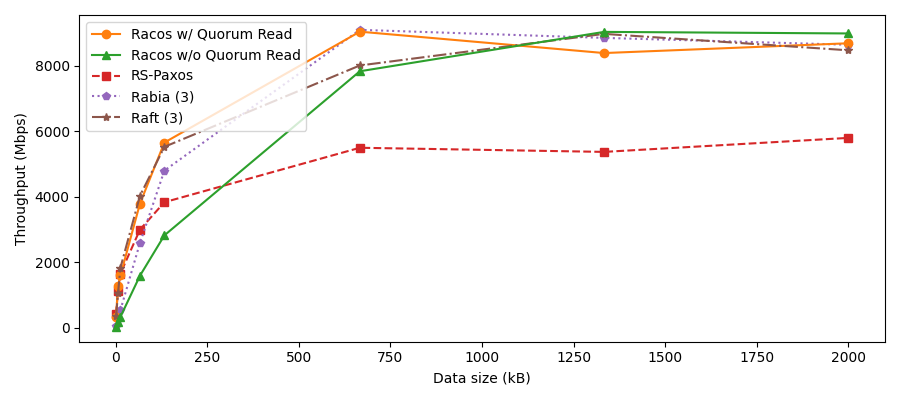
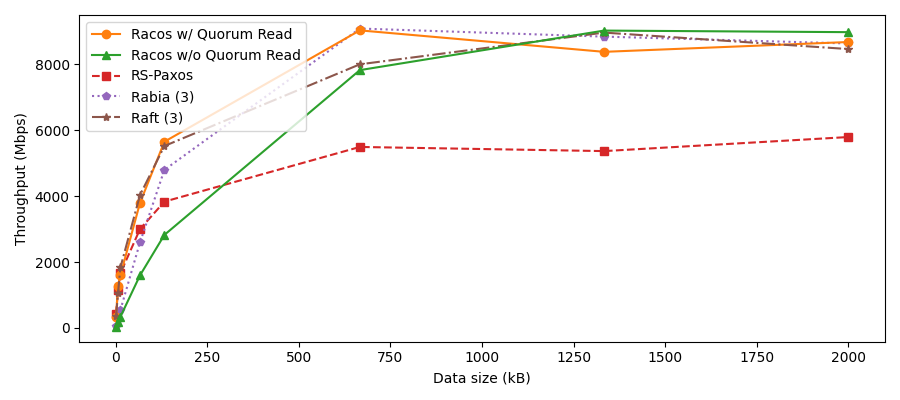
new plot

diff --git a/plotting.py b/plotting.py
@@ -37,6 +37,7 @@ def data_size_discrete_5_write_95_read() -> None:
   pyplot.figure(figsize = DIMENSIONS)
   for alg, group in data.groupby(['alg', 'unit_size'])['ops'].mean().reset_index().groupby('alg'):
     pyplot.plot(group['unit_size'], group['ops'] * group['unit_size'] / 125, linestyle = ALG_VANITY[alg][3], marker = ALG_VANITY[alg][2], color = ALG_VANITY[alg][0])
+  pyplot.ylim(top = 9000)
   pyplot.xlabel('Data size (kB)')
   pyplot.ylabel('Throughput (Mbps)')
   pyplot.legend(handles = LINE_LEGEND_READ, loc = 'upper left')
@@ -50,6 +51,7 @@ def data_size_discrete_5_write_95_read() -> None:
     pyplot.plot(x_axis + ALG_VANITY[alg][1], group['p95_latency'] / 1000, marker = 'o', linestyle = '', color = ALG_VANITY[alg][0])
     pyplot.plot(x_axis + ALG_VANITY[alg][1], group['p99_latency'] / 1000, marker = 'o', linestyle = '', color = ALG_VANITY[alg][0])
   pyplot.xticks(x_axis, ['1.3', '6.7', '13.3', '66.7', '133.3', '666.7', '1333.3', '2000.0'])
+  pyplot.ylim(top = 750)
   pyplot.xlabel('Data size (kB)')
   pyplot.ylabel('Latency (ms)')
   pyplot.legend(handles = BAR_LEGEND_READ, loc = 'upper left')
@@ -87,6 +89,7 @@ def data_size_discrete_all_read() -> None:
   pyplot.figure(figsize = DIMENSIONS)
   for alg, group in data.groupby(['alg', 'unit_size'])['ops'].mean().reset_index().groupby('alg'):
     pyplot.plot(group['unit_size'], group['ops'] * group['unit_size'] / 125, linestyle = ALG_VANITY[alg][3], marker = ALG_VANITY[alg][2], color = ALG_VANITY[alg][0])
+  pyplot.ylim(top = 9500)
   pyplot.xlabel('Data size (kB)')
   pyplot.ylabel('Throughput (Mbps)')
   pyplot.legend(handles = LINE_LEGEND_READ, loc = 'upper left')
@@ -116,6 +119,7 @@ def data_size_discrete_all_write() -> None:
   pyplot.figure(figsize = DIMENSIONS)
   for alg, group in data.groupby(['alg', 'unit_size'])['ops'].mean().reset_index().groupby('alg'):
     pyplot.plot(group['unit_size'], group['ops'] * group['unit_size'] / 125, linestyle = ALG_VANITY[alg][3], marker = ALG_VANITY[alg][2], color = ALG_VANITY[alg][0])
+  pyplot.ylim(top = 1100)
   pyplot.xlabel('Data size (kB)')
   pyplot.ylabel('Throughput (Mbps)')
   pyplot.legend(handles = LINE_LEGEND_WRITE, loc = 'upper left')
@@ -129,6 +133,7 @@ def data_size_discrete_all_write() -> None:
     pyplot.plot(x_axis + ALG_VANITY_WRITE[alg][1], group['p95_latency'] / 1000, marker = 'o', linestyle = '', color = ALG_VANITY_WRITE[alg][0])
     pyplot.plot(x_axis + ALG_VANITY_WRITE[alg][1], group['p99_latency'] / 1000, marker = 'o', linestyle = '', color = ALG_VANITY_WRITE[alg][0])
   pyplot.xticks(x_axis, ['1.3', '6.7', '13.3', '66.7', '133.3', '666.7', '1333.3', '2000.0'])
+  pyplot.ylim(top = 6000)
   pyplot.xlabel('Data size (kB)')
   pyplot.ylabel('Latency (ms)')
   pyplot.legend(handles = BAR_LEGEND_WRITE, loc = 'upper left')
@@ -142,11 +147,12 @@ def data_size_discrete_half_write_half_read() -> None:
   pyplot.figure(figsize = DIMENSIONS)
   for alg, group in data.groupby(['alg', 'unit_size'])['ops'].mean().reset_index().groupby('alg'):
     pyplot.plot(group['unit_size'], group['ops'] * group['unit_size'] / 125, linestyle = ALG_VANITY[alg][3], marker = ALG_VANITY[alg][2], color = ALG_VANITY[alg][0])
+  pyplot.ylim(top = 2100)
   pyplot.xlabel('Data size (kB)')
   pyplot.ylabel('Throughput (Mbps)')
   pyplot.legend(handles = LINE_LEGEND_READ, loc = 'upper left')
   pyplot.tight_layout()
-  pyplot.savefig('plots/data_size-discrete-5_write_95_read/data_size-throughput-half_write_half_read.png')
+  pyplot.savefig('plots/data_size-discrete-half_write_half_read/data_size-throughput-half_write_half_read.png')
 
   pyplot.figure(figsize = DIMENSIONS)
   x_axis : numpy.ndarray = numpy.arange(8)
@@ -155,11 +161,12 @@ def data_size_discrete_half_write_half_read() -> None:
     pyplot.plot(x_axis + ALG_VANITY[alg][1], group['p95_latency'] / 1000, marker = 'o', linestyle = '', color = ALG_VANITY[alg][0])
     pyplot.plot(x_axis + ALG_VANITY[alg][1], group['p99_latency'] / 1000, marker = 'o', linestyle = '', color = ALG_VANITY[alg][0])
   pyplot.xticks(x_axis, ['1.3', '6.7', '13.3', '66.7', '133.3', '666.7', '1333.3', '2000.0'])
+  pyplot.ylim(top = 3500)
   pyplot.xlabel('Data size (kB)')
   pyplot.ylabel('Latency (ms)')
   pyplot.legend(handles = BAR_LEGEND_READ, loc = 'upper left')
   pyplot.tight_layout()
-  pyplot.savefig('plots/data_size-discrete-5_write_95_read/data_size-latency-half_write_half_read.png')
+  pyplot.savefig('plots/data_size-discrete-half_write_half_read/data_size-latency-half_write_half_read.png')
 
   loss_data : pandas.DataFrame = setup_dataframe(data, 'packet_loss_config')
   loss_data = loss_data.loc[loss_data['packet_loss_config'].apply(lambda config : config_matches(r'^0\.01(_0\.01)*_0$', config))]
@@ -171,7 +178,7 @@ def data_size_discrete_half_write_half_read() -> None:
   pyplot.ylabel('Throughput (Mbps)')
   pyplot.legend(handles = LINE_LEGEND_READ, loc = 'upper left')
   pyplot.tight_layout()
-  pyplot.savefig('plots/data_size-discrete-5_write_95_read/data_size-throughput-half_write_half_read-loss.png')
+  pyplot.savefig('plots/data_size-discrete-half_write_half_read/data_size-throughput-half_write_half_read-loss.png')
 
   pyplot.figure(figsize = DIMENSIONS)
   for alg, group in loss_data.groupby(['alg', 'unit_size'])[['med_latency', 'p95_latency', 'p99_latency']].mean().reset_index().groupby('alg'):
@@ -183,7 +190,7 @@ def data_size_discrete_half_write_half_read() -> None:
   pyplot.ylabel('Latency (ms)')
   pyplot.legend(handles = BAR_LEGEND_READ, loc = 'upper left')
   pyplot.tight_layout()
-  pyplot.savefig('plots/data_size-discrete-5_write_95_read/data_size-latency-half_write_half_read-loss.png')
+  pyplot.savefig('plots/data_size-discrete-half_write_half_read/data_size-latency-half_write_half_read-loss.png')
 
 def data_size_light_5_write_95_read() -> None:
   '''creates all configured plots from the data found in `data/data_size-light-5_write_95_read`'''
@@ -192,6 +199,7 @@ def data_size_light_5_write_95_read() -> None:
   pyplot.figure(figsize = DIMENSIONS)
   for alg, group in data.groupby(['alg', 'unit_size'])['ops'].mean().reset_index().groupby('alg'):
     pyplot.plot(group['unit_size'], group['ops'] * group['unit_size'] / 125, linestyle = ALG_VANITY[alg][3], marker = ALG_VANITY[alg][2], color = ALG_VANITY[alg][0])
+  pyplot.ylim(top = 9000)
   pyplot.xlabel('Data size (kB)')
   pyplot.ylabel('Throughput (Mbps)')
   pyplot.legend(handles = LINE_LEGEND_READ, loc = 'upper left')
@@ -205,6 +213,7 @@ def data_size_light_5_write_95_read() -> None:
     pyplot.plot(x_axis + ALG_VANITY[alg][1], group['p95_latency'] / 1000, marker = 'o', linestyle = '', color = ALG_VANITY[alg][0])
     pyplot.plot(x_axis + ALG_VANITY[alg][1], group['p99_latency'] / 1000, marker = 'o', linestyle = '', color = ALG_VANITY[alg][0])
   pyplot.xticks(x_axis, ['1.3', '6.7', '13.3', '66.7', '133.3', '666.7', '1333.3', '2000.0'])
+  pyplot.ylim(top = 750)
   pyplot.xlabel('Data size (kB)')
   pyplot.ylabel('Latency (ms)')
   pyplot.legend(handles = BAR_LEGEND_READ, loc = 'upper left')
@@ -218,6 +227,7 @@ def data_size_light_all_read() -> None:
   pyplot.figure(figsize = DIMENSIONS)
   for alg, group in data.groupby(['alg', 'unit_size'])['ops'].mean().reset_index().groupby('alg'):
     pyplot.plot(group['unit_size'], group['ops'] * group['unit_size'] / 125, linestyle = ALG_VANITY[alg][3], marker = ALG_VANITY[alg][2], color = ALG_VANITY[alg][0])
+  pyplot.ylim(top = 9500)
   pyplot.xlabel('Data size (kB)')
   pyplot.ylabel('Throughput (Mbps)')
   pyplot.legend(handles = LINE_LEGEND_READ, loc = 'upper left')
@@ -247,6 +257,7 @@ def data_size_light_all_write() -> None:
   pyplot.figure(figsize = DIMENSIONS)
   for alg, group in data.groupby(['alg', 'unit_size'])['ops'].mean().reset_index().groupby('alg'):
     pyplot.plot(group['unit_size'], group['ops'] * group['unit_size'] / 125, linestyle = ALG_VANITY[alg][3], marker = ALG_VANITY[alg][2], color = ALG_VANITY[alg][0])
+  pyplot.ylim(top = 1100)
   pyplot.xlabel('Data size (kB)')
   pyplot.ylabel('Throughput (Mbps)')
   pyplot.legend(handles = LINE_LEGEND_WRITE, loc = 'upper left')
@@ -260,6 +271,7 @@ def data_size_light_all_write() -> None:
     pyplot.plot(x_axis + ALG_VANITY_WRITE[alg][1], group['p95_latency'] / 1000, marker = 'o', linestyle = '', color = ALG_VANITY_WRITE[alg][0])
     pyplot.plot(x_axis + ALG_VANITY_WRITE[alg][1], group['p99_latency'] / 1000, marker = 'o', linestyle = '', color = ALG_VANITY_WRITE[alg][0])
   pyplot.xticks(x_axis, ['1.3', '6.7', '13.3', '66.7', '133.3', '666.7', '1333.3', '2000.0'])
+  pyplot.ylim(top = 6000)
   pyplot.xlabel('Data size (kB)')
   pyplot.ylabel('Latency (ms)')
   pyplot.legend(handles = BAR_LEGEND_WRITE, loc = 'upper left')
@@ -273,11 +285,12 @@ def data_size_light_half_write_half_read() -> None:
   pyplot.figure(figsize = DIMENSIONS)
   for alg, group in data.groupby(['alg', 'unit_size'])['ops'].mean().reset_index().groupby('alg'):
     pyplot.plot(group['unit_size'], group['ops'] * group['unit_size'] / 125, linestyle = ALG_VANITY[alg][3], marker = ALG_VANITY[alg][2], color = ALG_VANITY[alg][0])
+  pyplot.ylim(top = 2100)
   pyplot.xlabel('Data size (kB)')
   pyplot.ylabel('Throughput (Mbps)')
   pyplot.legend(handles = LINE_LEGEND_READ, loc = 'upper left')
   pyplot.tight_layout()
-  pyplot.savefig('plots/data_size-light-5_write_95_read/data_size-throughput-half_write_half_read-light.png')
+  pyplot.savefig('plots/data_size-light-half_write_half_read/data_size-throughput-half_write_half_read-light.png')
 
   pyplot.figure(figsize = DIMENSIONS)
   x_axis : numpy.ndarray = numpy.arange(8)
@@ -286,37 +299,40 @@ def data_size_light_half_write_half_read() -> None:
     pyplot.plot(x_axis + ALG_VANITY[alg][1], group['p95_latency'] / 1000, marker = 'o', linestyle = '', color = ALG_VANITY[alg][0])
     pyplot.plot(x_axis + ALG_VANITY[alg][1], group['p99_latency'] / 1000, marker = 'o', linestyle = '', color = ALG_VANITY[alg][0])
   pyplot.xticks(x_axis, ['1.3', '6.7', '13.3', '66.7', '133.3', '666.7', '1333.3', '2000.0'])
+  pyplot.ylim(top = 3500)
   pyplot.xlabel('Data size (kB)')
   pyplot.ylabel('Latency (ms)')
   pyplot.legend(handles = BAR_LEGEND_READ, loc = 'upper left')
   pyplot.tight_layout()
-  pyplot.savefig('plots/data_size-light-5_write_95_read/data_size-latency-half_write_half_read-light.png')
+  pyplot.savefig('plots/data_size-light-half_write_half_read/data_size-latency-half_write_half_read-light.png')
 
 def data_size_small_light_half_write_half_read() -> None:
-  '''creates all configured plots from the data found in `data/data_size-light-half_write_half_read`'''
-  data : pandas.DataFrame = setup_dataframe(pandas.read_csv('data/data_size-light-half_write_half_read.csv'))
+  '''creates all configured plots from the data found in `data/data_size-small_light-half_write_half_read`'''
+  data : pandas.DataFrame = pandas.read_csv('data/data_size-small_light-half_write_half_read.csv')
 
   pyplot.figure(figsize = DIMENSIONS)
   for alg, group in data.groupby(['alg', 'unit_size'])['ops'].mean().reset_index().groupby('alg'):
-    pyplot.plot(group['unit_size'], group['ops'] * group['unit_size'] / 125, linestyle = ALG_VANITY[alg][3], marker = ALG_VANITY[alg][2], color = ALG_VANITY[alg][0])
-  pyplot.xlabel('Data size (kB)')
+    pyplot.plot(group['unit_size'] * 1.35, group['ops'] * group['unit_size'] * 1.35 * 8 / 1000000, linestyle = ALG_VANITY[alg][3], marker = ALG_VANITY[alg][2], color = ALG_VANITY[alg][0])
+  pyplot.ylim(top = 30)
+  pyplot.xlabel('Data size (B)')
   pyplot.ylabel('Throughput (Mbps)')
   pyplot.legend(handles = LINE_LEGEND_READ, loc = 'upper left')
   pyplot.tight_layout()
-  pyplot.savefig('plots/data_size-light-5_write_95_read/data_size-throughput-half_write_half_read-light.png')
+  pyplot.savefig('plots/data_size-small_light-half_write_half_read/data_size-throughput-half_write_half_read-small_light.png')
 
   pyplot.figure(figsize = DIMENSIONS)
-  x_axis : numpy.ndarray = numpy.arange(8)
+  x_axis : numpy.ndarray = numpy.arange(4)
   for alg, group in data.groupby(['alg', 'unit_size'])[['med_latency', 'p95_latency', 'p99_latency']].mean().reset_index().groupby('alg'):
     pyplot.bar(x_axis + ALG_VANITY[alg][1], group['med_latency'] / 1000, .19, color = ALG_VANITY[alg][0])
     pyplot.plot(x_axis + ALG_VANITY[alg][1], group['p95_latency'] / 1000, marker = 'o', linestyle = '', color = ALG_VANITY[alg][0])
     pyplot.plot(x_axis + ALG_VANITY[alg][1], group['p99_latency'] / 1000, marker = 'o', linestyle = '', color = ALG_VANITY[alg][0])
-  pyplot.xticks(x_axis, ['1.3', '6.7', '13.3', '66.7', '133.3', '666.7', '1333.3', '2000.0'])
-  pyplot.xlabel('Data size (kB)')
+  pyplot.xticks(x_axis, ['270', '540', '810', '1080'])
+  pyplot.ylim(top = 150)
+  pyplot.xlabel('Data size (B)')
   pyplot.ylabel('Latency (ms)')
-  pyplot.legend(handles = BAR_LEGEND_READ, loc = 'upper left')
+  pyplot.legend(handles = BAR_LEGEND_READ, loc = 'upper right', ncols = 2)
   pyplot.tight_layout()
-  pyplot.savefig('plots/data_size-light-5_write_95_read/data_size-latency-half_write_half_read-light.png')
+  pyplot.savefig('plots/data_size-small_light-half_write_half_read/data_size-latency-half_write_half_read-small_light.png')
 
 def data_size_small_half_write_half_read() -> None:
   '''creates all configured plots from the data found in `data/data_size-small-half_write_half_read`'''
@@ -325,6 +341,7 @@ def data_size_small_half_write_half_read() -> None:
   pyplot.figure(figsize = DIMENSIONS)
   for alg, group in data.groupby(['alg', 'unit_size'])['ops'].mean().reset_index().groupby('alg'):
     pyplot.plot(group['unit_size'] * 1.35, group['ops'] * group['unit_size'] * 1.35 * 8 / 1000000, linestyle = ALG_VANITY[alg][3], marker = ALG_VANITY[alg][2], color = ALG_VANITY[alg][0])
+  pyplot.ylim(top = 30)
   pyplot.xlabel('Data size (B)')
   pyplot.ylabel('Throughput (Mbps)')
   pyplot.legend(handles = LINE_LEGEND_READ, loc = 'upper left')
@@ -338,6 +355,7 @@ def data_size_small_half_write_half_read() -> None:
     pyplot.plot(x_axis + ALG_VANITY[alg][1], group['p95_latency'] / 1000, marker = 'o', linestyle = '', color = ALG_VANITY[alg][0])
     pyplot.plot(x_axis + ALG_VANITY[alg][1], group['p99_latency'] / 1000, marker = 'o', linestyle = '', color = ALG_VANITY[alg][0])
   pyplot.xticks(x_axis, ['270', '540', '810', '1080'])
+  pyplot.ylim(top = 150)
   pyplot.xlabel('Data size (B)')
   pyplot.ylabel('Latency (ms)')
   pyplot.legend(handles = BAR_LEGEND_READ, loc = 'upper right', ncols = 2)
@@ -632,6 +650,7 @@ def threads_discrete_5_write_95_read() -> None:
   pyplot.figure(figsize = DIMENSIONS)
   for alg, group in data.groupby(['alg', 'unit_size'])[['ops', 'med_latency']].mean().reset_index().groupby('alg'):
     pyplot.plot(group['ops'] * 5.3336, group['med_latency'] / 1000, marker = ALG_VANITY[alg][2], linestyle = ALG_VANITY[alg][3], color = ALG_VANITY[alg][0])
+  pyplot.ylim(top = 65)
   pyplot.xlabel('Throughput (Mbps)')
   pyplot.ylabel('Median latency (ms)')
   pyplot.legend(handles = LINE_LEGEND_READ, loc = 'upper right')
@@ -641,6 +660,7 @@ def threads_discrete_5_write_95_read() -> None:
   pyplot.figure(figsize = DIMENSIONS)
   for alg, group in data.groupby(['alg', 'unit_size'])[['ops', 'p99_latency']].mean().reset_index().groupby('alg'):
     pyplot.plot(group['ops'] * 5.3336, group['p99_latency'] / 1000, marker = ALG_VANITY[alg][2], linestyle = ALG_VANITY[alg][3], color = ALG_VANITY[alg][0])
+  pyplot.ylim(top = 190)
   pyplot.xlabel('Throughput (Mbps)')
   pyplot.ylabel('P99 latency (ms)')
   pyplot.legend(handles = LINE_LEGEND_READ, loc = 'upper right')
@@ -677,6 +697,7 @@ def threads_light_5_write_95_read() -> None:
   pyplot.figure(figsize = DIMENSIONS)
   for alg, group in data.groupby(['alg', 'unit_size'])[['ops', 'med_latency']].mean().reset_index().groupby('alg'):
     pyplot.plot(group['ops'] * 5.3336, group['med_latency'] / 1000, marker = ALG_VANITY[alg][2], linestyle = ALG_VANITY[alg][3], color = ALG_VANITY[alg][0])
+  pyplot.ylim(top = 65)
   pyplot.xlabel('Throughput (Mbps)')
   pyplot.ylabel('Median latency (ms)')
   pyplot.legend(handles = LINE_LEGEND_READ, loc = 'upper right')
@@ -686,6 +707,7 @@ def threads_light_5_write_95_read() -> None:
   pyplot.figure(figsize = DIMENSIONS)
   for alg, group in data.groupby(['alg', 'unit_size'])[['ops', 'p99_latency']].mean().reset_index().groupby('alg'):
     pyplot.plot(group['ops'] * 5.3336, group['p99_latency'] / 1000, marker = ALG_VANITY[alg][2], linestyle = ALG_VANITY[alg][3], color = ALG_VANITY[alg][0])
+  pyplot.ylim(top = 190)
   pyplot.xlabel('Throughput (Mbps)')
   pyplot.ylabel('P99 latency (ms)')
   pyplot.legend(handles = LINE_LEGEND_READ, loc = 'upper right')
@@ -713,3 +735,18 @@ def threads_light_half_write_half_read() -> None:
   pyplot.legend(handles = LINE_LEGEND_READ, loc = 'upper right')
   pyplot.tight_layout()
   pyplot.savefig('plots/threads-light-half_write_half_read/throughput-p99_latency-half_write_half_read-light.png')
+
+if __name__ == '__main__':
+  data_size_light_5_write_95_read()
+  data_size_light_all_read()
+  data_size_light_all_write()
+  data_size_light_half_write_half_read()
+  data_size_small_light_half_write_half_read()
+  threads_light_5_write_95_read()
+  data_size_discrete_5_write_95_read()
+  data_size_discrete_all_read()
+  data_size_discrete_all_write()
+  data_size_discrete_half_write_half_read()
+  data_size_small_half_write_half_read()
+  threads_discrete_5_write_95_read()
+  threads_discrete_half_write_half_read()
